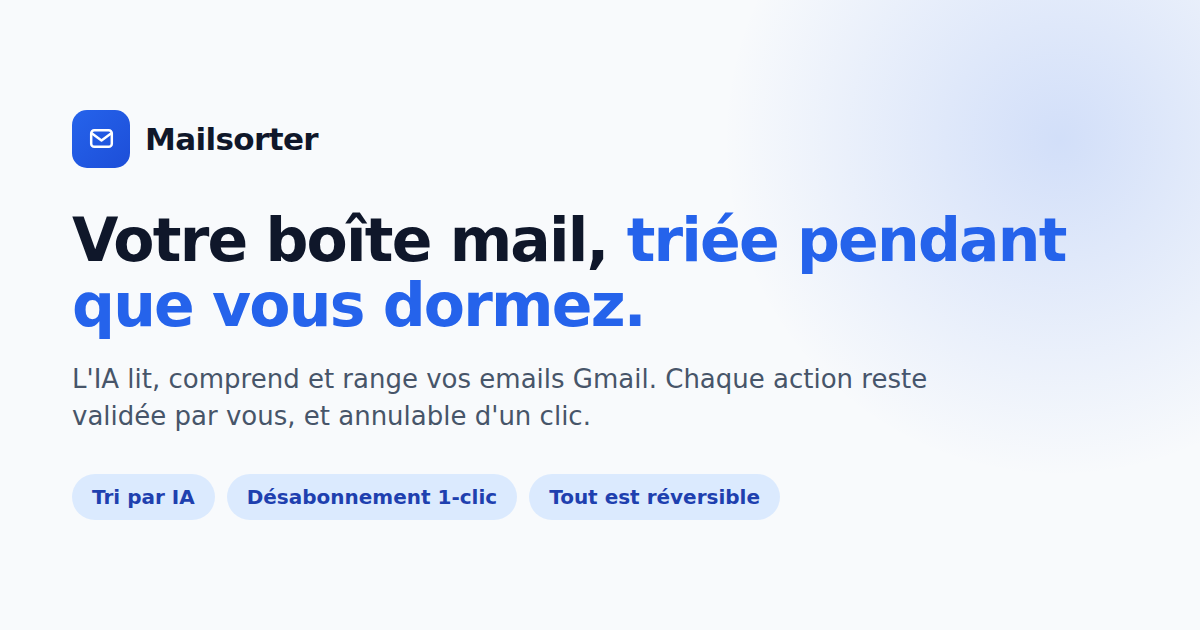
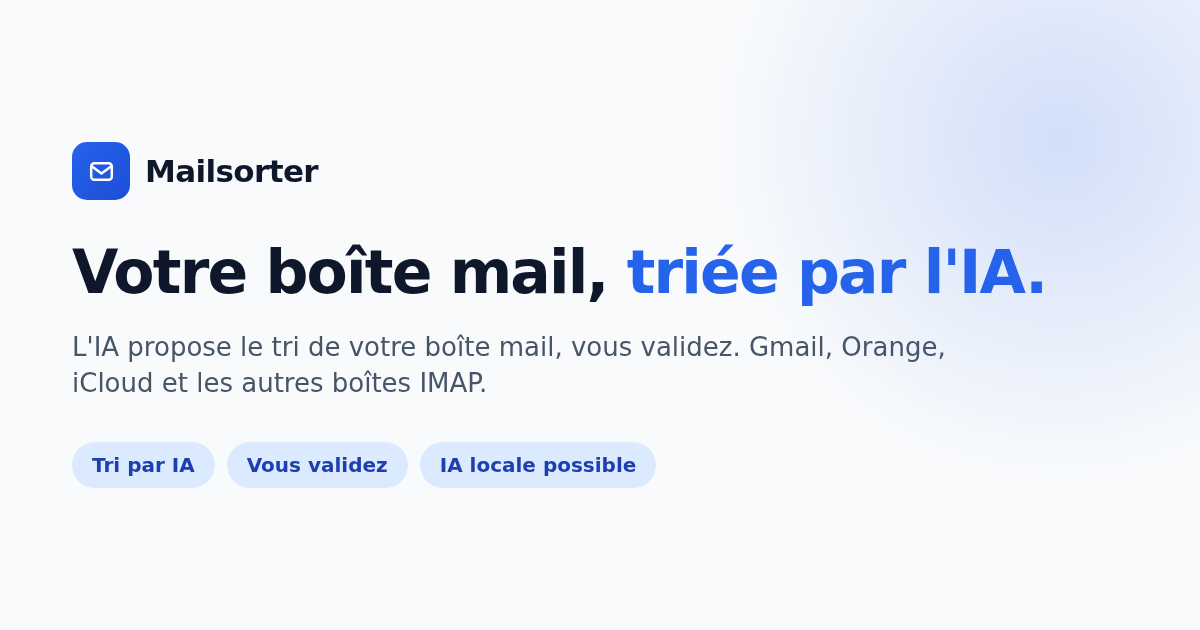
fix(ui): Pro sells only what free does not have; Infomaniak's password; dated legal pages; preview image
- Pricing: the Pro plan listed rules at each sync and the daily recap,
  which the free plan has too (Pro only lifts the analysis quota). They
  move to the free plan, behind the same "only where it works" filter;
  "Plusieurs comptes Gmail" becomes "Plusieurs boîtes mail".
- /connect: Infomaniak's IMAP route takes the mailbox password itself, and
  the form said "Ce n'est pas le mot de passe habituel". The label and the
  help follow the route's auth.
- Terms and privacy are dated today: they now name the AI provider.
- og-image.png still said "triée pendant que vous dormez" and "emails
  Gmail": regenerated from its source, which now matches the page title.

Changed region(s): [[0.0617, 0.1508, 0.8942, 0.8444]]

diff --git a/frontend/src/pages/Connect.js b/frontend/src/pages/Connect.js
@@ -6,6 +6,7 @@ import { useConfirm } from '../ui/Confirm';
 import { useInstance } from '../contexts/InstanceContext';
 import { track } from '../lib/analytics';
 import { detectProvider, ProviderBriefing } from '../components/MailboxBriefing';
+import { imapRouteOf } from '../components/landing/features';
 import { Shield, Refresh, Trash, Check, Google, Sparkles, Inbox } from '../ui/icons';
 import Spinner from '../ui/Spinner';
 import { useHotel } from '../ui/hotel/HotelTheme';
@@ -146,6 +147,9 @@ function Connect() {
   }, []);
 
   const detected = useMemo(() => detectProvider(providers, address), [providers, address]);
+  // A few providers (Infomaniak) have no app password: their IMAP route takes
+  // the mailbox password itself, and the form must not say the opposite.
+  const usualPassword = imapRouteOf(detected)?.auth === 'password';
   // The examples under the form's title are the providers it can connect,
   // read from the catalog: a name written here by hand promised Outlook, which
   // goes through an API Mailsorter does not use yet.
@@ -337,7 +341,7 @@ function Connect() {
               />
 
               <label htmlFor="mailbox-password" className="mt-4 block text-xs font-bold text-ink-700">
-                Mot de passe d'application
+                {usualPassword ? 'Mot de passe de la messagerie' : "Mot de passe d'application"}
               </label>
               <input
                 id="mailbox-password"
@@ -345,14 +349,16 @@ function Connect() {
                 required
                 autoComplete="new-password"
                 className="input mt-1.5 w-full text-sm"
-                placeholder="xxxx xxxx xxxx xxxx"
+                placeholder={usualPassword ? '' : 'xxxx xxxx xxxx xxxx'}
                 value={password}
                 onChange={(e) => setPassword(e.target.value)}
                 disabled={connecting}
                 aria-describedby="mailbox-password-help"
               />
               <p id="mailbox-password-help" className="mt-2 text-xs leading-relaxed text-muted">
-                Ce n'est pas le mot de passe habituel de votre messagerie. C'est un code spécifique généré dans l'espace sécurité de votre fournisseur, révocable sans affecter votre boîte.
+                {usualPassword
+                  ? "Ce fournisseur n'a pas de mot de passe d'application : c'est le mot de passe habituel de votre messagerie. Il est chiffré avant d'être enregistré."
+                  : "Ce n'est pas le mot de passe habituel de votre messagerie. C'est un code spécifique généré dans l'espace sécurité de votre fournisseur, révocable sans affecter votre boîte."}
               </p>
 
               <button

diff --git a/frontend/src/pages/Pricing.js b/frontend/src/pages/Pricing.js
@@ -27,6 +27,8 @@ const PLANS = [
     features: [
       '200 emails analysés / mois',
       'Tri IA + suggestions',
+      { label: 'Règles appliquées à chaque synchronisation', feature: 'rules' },
+      { label: 'Récap quotidien par email', feature: 'digest' },
       { label: 'Actions en masse par expéditeur', feature: 'sender' },
       { label: 'Auto-pilote par expéditeur', feature: 'sender' },
       'Raccourcis clavier pour vider votre boîte',
@@ -40,13 +42,12 @@ const PLANS = [
     cta: "Rejoindre la liste d'attente",
     highlight: true,
     features: [
+      'Tout le plan Gratuit',
       'Emails analysés illimités',
-      { label: 'Règles appliquées à chaque synchronisation', feature: 'rules' },
-      { label: 'Récap quotidien par email', feature: 'digest' },
       // Le multi-comptes demande un modèle `account` distinct du userId, qui
       // n'existe pas (docs/ROADMAP.md, "Reste à brancher"). La ligne reste,
       // marquée : la vendre sans le dire était la seule ligne fausse du plan.
-      { label: 'Plusieurs comptes Gmail', soon: true },
+      { label: 'Plusieurs boîtes mail', soon: true },
       'Support prioritaire',
     ],
   },

diff --git a/docs/assets/og-image.source.html b/docs/assets/og-image.source.html
@@ -26,7 +26,7 @@
     </div>
     <div class="name">Mailsorter</div>
   </div>
-  <h1>Votre boîte mail, <span>triée pendant que vous dormez.</span></h1>
-  <p>L'IA lit, comprend et range vos emails Gmail. Chaque action reste validée par vous, et annulable d'un clic.</p>
-  <div class="chips"><div class="chip">Tri par IA</div><div class="chip">Désabonnement 1-clic</div><div class="chip">Tout est réversible</div></div>
+  <h1>Votre boîte mail, <span>triée par l'IA.</span></h1>
+  <p>L'IA propose le tri de votre boîte mail, vous validez. Gmail, Orange, iCloud et les autres boîtes IMAP.</p>
+  <div class="chips"><div class="chip">Tri par IA</div><div class="chip">Vous validez</div><div class="chip">IA locale possible</div></div>
 </body></html>

diff --git a/frontend/src/pages/Privacy.js b/frontend/src/pages/Privacy.js
@@ -33,7 +33,7 @@ function Privacy() {
   return (
     <LegalLayout
       title="Politique de confidentialité"
-      updatedAt="19 septembre 2026"
+      updatedAt="24 novembre 2026"
       intro="Mailsorter lit votre boîte mail pour la trier. C'est un accès sensible, et cette page dit exactement ce qui est demandé à Google, ce qui est conservé, ce qui est envoyé à un tiers, et comment tout effacer."
     >
       <LegalSection n="1" title="Qui traite vos données">

diff --git a/frontend/src/pages/Terms.js b/frontend/src/pages/Terms.js
@@ -19,7 +19,7 @@ function Terms() {
   return (
     <LegalLayout
       title="Conditions d'utilisation"
-      updatedAt="19 septembre 2026"
+      updatedAt="24 novembre 2026"
       intro="Ce que Mailsorter s'engage à faire, ce que vous acceptez en l'utilisant, et ce sur quoi vous gardez la main."
     >
       <LegalSection n="1" title="Objet">
